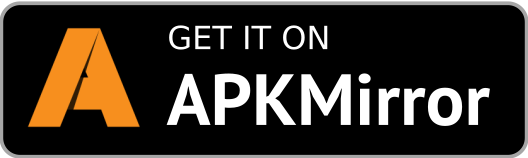
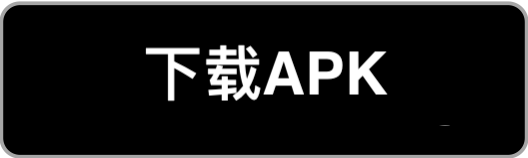
feat: 修复下载链接的问题

Changed region(s): [[0.2727, 0.1519, 0.9394, 0.8101], [0.0303, 0.1772, 0.2727, 0.8101]]

diff --git a/_layouts/default.html b/_layouts/default.html
@@ -57,7 +57,7 @@
                             <a class="appStoreLink" href="{{site.appstore_link}}"><img class="appStore" src="assets/appstore.png"></a>
                             {% if site.presskit_download_link %}
                             <a class="apkMirrorStoreLink" href="{{site.presskit_download_link}}">
-                                下载APK
+                                <img class="playStore" style="margin-top: 10px;" src="assets/apkmirror.png">
                             </a>
                             {% endif %}
                         </div>

diff --git a/_sass/layout.scss b/_sass/layout.scss
@@ -375,19 +375,7 @@ nav > ul li a:active {
 }
 
 .apkMirrorStoreLink {
-	margin-top: 16px;
-	display: none;
-	width: 100%;
-	height: 51px;
-	background: #000000;
-	border: 1px solid #A6A6A6;
-	border-radius: 9px;
-	color: #fff;
-	text-align: center;
-	line-height: 51px;
-	font-weight: bold;
-	font-size: 18px;
-	cursor: pointer;
+	height: 75px;
 }
 
 // iPhone Device Preview
